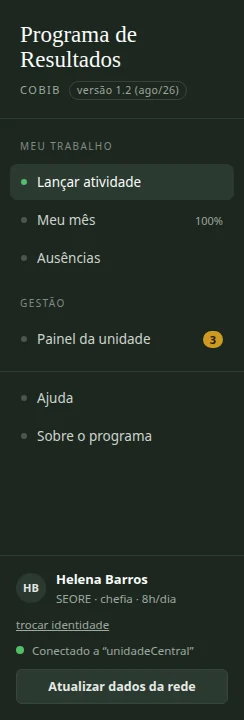
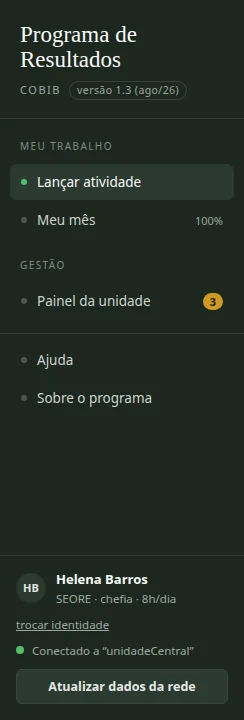
feat(ausencias): hide the section behind an admin switch
Management asked for the Absences section to come off the screen while
they settle what it should be. Deleting it would throw away working
code and, worse, would strand the periods people already registered —
which the goal percentage still discounts. So nothing was removed: the
screen, the panel tab and the texts that mention absences are hidden,
and a switch in the administrator's panel brings them all back.

The switch lives in config.json, which only the administrator writes,
so the decision is the same for everyone rather than a per-browser
preference; the others get it on the next "Atualizar dados da rede".
Absent from an older config.json, the key reads as hidden, which is the
state the section is meant to be in — no one has to do anything.

Hiding the rail button would not have been enough, so the rule sits in
podeVer alongside the others, and the panel falls back to "Aprovações"
when the tab remembered in this browser is the hidden one.

Three sentences explain the goal by naming absences. Cutting the clause
out mid-sentence would leave the punctuation adrift, so those sentences
exist in two wordings marked data-ausencias and data-sem-ausencias, and
only one is shown. The rail and panel screenshots were retaken without
the section: an image showing a menu item that is not there teaches the
wrong path with the confidence of a photograph.

Assisted-by: IA

diff --git a/code/index.html b/code/index.html
@@ -690,8 +690,14 @@ dialog h2{font-family:var(--serif); font-weight:400; font-size:21px; margin:0 0 
         <div class="valor"><span id="mesPct">—</span></div>
         <div class="barra"><i id="mesBarra" style="width:0"></i></div>
         <p class="explica" id="mesPctBase"></p>
-        <p class="explica">Média dos dias em que você lançou. Dias sem lançamento e dias de
-          ausência ficam fora do cálculo — o número mede intensidade, não assiduidade.</p>
+        <!-- Duas redações da mesma explicação: a segunda cita as ausências, e
+             só aparece quando a seção em avaliação está ligada. Esconder um
+             trecho no meio da frase deixaria a pontuação sem sentido. -->
+        <p class="explica" data-sem-ausencias>Média dos dias em que você lançou. Dias sem
+          lançamento ficam fora do cálculo — o número mede intensidade, não assiduidade.</p>
+        <p class="explica" data-ausencias hidden>Média dos dias em que você lançou. Dias sem
+          lançamento e dias de ausência ficam fora do cálculo — o número mede intensidade,
+          não assiduidade.</p>
       </div>
       <div class="num-cartao">
         <span class="rotulo">Pontos no mês</span>
@@ -824,7 +830,8 @@ dialog h2{font-family:var(--serif); font-weight:400; font-size:21px; margin:0 0 
               aria-selected="true" aria-controls="painelAprov">Aprovações<span class="cont" id="contLanc"></span></button>
       <button type="button" class="aba" role="tab" id="abaVisao" data-aba="visao"
               aria-selected="false" aria-controls="painelVisao">Visão do mês<span class="cont" id="contResumo"></span></button>
-      <button type="button" class="aba" role="tab" id="abaAus" data-aba="aus"
+      <!-- oculta enquanto a seção estiver em avaliação; ver aplicarAusencias() -->
+      <button type="button" class="aba" role="tab" id="abaAus" data-aba="aus" hidden
               aria-selected="false" aria-controls="painelAus">Ausências<span class="cont" id="contAus"></span></button>
     </div>
 
@@ -926,6 +933,23 @@ dialog h2{font-family:var(--serif); font-weight:400; font-size:21px; margin:0 0 
     <div class="cartao">
       <h2>Pasta oficial</h2>
       <p class="dica" id="infoInstalacao">—</p>
+    </div>
+
+    <!-- Seções que a gestão ainda discute. A chave fica no config.json, que
+         só o administrador grava, então a decisão vale igual para todos. -->
+    <div class="cartao">
+      <h2>Seções em avaliação</h2>
+      <p class="dica">Partes do programa que aguardam decisão da gestão. Ficam ocultas para
+        todo mundo enquanto isso; ligá-las aqui vale para todos assim que recarregarem os
+        dados da rede. O que já foi registrado continua guardado nos arquivos das pessoas,
+        mesmo com a seção desligada.</p>
+      <label style="display:flex;gap:8px;align-items:center;margin:14px 0 0;font-size:13px">
+        <input type="checkbox" id="chkMostrarAusencias" style="width:auto">
+        Mostrar a seção <b>Ausências</b> (tela do servidor e aba do painel)
+      </label>
+      <p class="dica" style="margin-top:8px">Com a seção desligada, ninguém registra nem
+        consulta ausências pela tela. As ausências já gravadas continuam saindo da conta do
+        percentual da meta — o cálculo não mudou.</p>
     </div>
 
     <div class="cartao">
@@ -1037,17 +1061,19 @@ dialog h2{font-family:var(--serif); font-weight:400; font-size:21px; margin:0 0 
           <ul>
             <li><b>Lançar atividade</b> — o registro do dia.</li>
             <li><b>Meu mês</b> — seus lançamentos, seus pontos e a meta alcançada.</li>
-            <li><b>Ausências</b> — períodos de afastamento.</li>
-            <li><b>Painel</b> (chefias) — aprovar, analisar o mês e conferir ausências.</li>
+            <li data-ausencias hidden><b>Ausências</b> — períodos de afastamento.</li>
+            <li data-sem-ausencias><b>Painel</b> (chefias) — aprovar e analisar o mês.</li>
+            <li data-ausencias hidden><b>Painel</b> (chefias) — aprovar, analisar o mês e
+              conferir ausências.</li>
           </ul>
           <p>Os números ao lado dos itens dizem se vale entrar: o percentual em "Meu
             mês" e a quantidade de lançamentos esperando você, no painel.</p>
           <figure>
             <img src="ajuda/rail.webp" loading="lazy"
                  alt="Barra de navegação escura à esquerda, com o grupo Meu trabalho
-                      (Lançar atividade, Meu mês com o percentual ao lado, Ausências)
-                      e o grupo Gestão (Painel da unidade com a contagem de pendentes),
-                      e abaixo os itens Ajuda e Sobre o programa.">
+                      (Lançar atividade e Meu mês, com o percentual ao lado) e o grupo
+                      Gestão (Painel da unidade com a contagem de pendentes), e abaixo
+                      os itens Ajuda e Sobre o programa.">
             <figcaption>A barra de navegação, como a vê uma chefia de unidade.</figcaption>
           </figure>
         </div>
@@ -1116,19 +1142,25 @@ dialog h2{font-family:var(--serif); font-weight:400; font-size:21px; margin:0 0 
       </div>
 
       <div class="cartao">
-        <h2>Ausências, e o que a meta mede</h2>
-        <p class="dica">Dois pontos que costumam ser lidos errado.</p>
+        <h2 data-sem-ausencias>O que a meta mede</h2>
+        <h2 data-ausencias hidden>Ausências, e o que a meta mede</h2>
+        <p class="dica" data-sem-ausencias>O número mais fácil de ler errado no programa.</p>
+        <p class="dica" data-ausencias hidden>Dois pontos que costumam ser lidos errado.</p>
         <div style="margin-top:14px">
-          <h3>Ausências</h3>
-          <p>Férias, licenças, banco de horas e abonos são registrados como
-            <b>período</b> — primeiro e último dia —, na tela Ausências. Não valem
+          <h3 data-ausencias hidden>Ausências</h3>
+          <p data-ausencias hidden>Férias, licenças, banco de horas e abonos são registrados
+            como <b>período</b> — primeiro e último dia —, na tela Ausências. Não valem
             pontos e não passam por aprovação. Servem para tirar da conta da meta os
             dias em que não havia como trabalhar.</p>
-          <h3>O percentual da meta</h3>
-          <p>A meta é por <b>dia trabalhado</b>: 15 pontos para quem cumpre 8 horas,
-            11 para quem cumpre 6. O percentual é a média <b>apenas dos dias em que
-            você lançou alguma coisa</b>; dias sem lançamento e dias de ausência
-            ficam fora do cálculo.</p>
+          <h3 data-ausencias hidden>O percentual da meta</h3>
+          <p data-sem-ausencias>A meta é por <b>dia trabalhado</b>: 15 pontos para quem
+            cumpre 8 horas, 11 para quem cumpre 6. O percentual é a média <b>apenas dos
+            dias em que você lançou alguma coisa</b>; dias sem lançamento ficam fora do
+            cálculo.</p>
+          <p data-ausencias hidden>A meta é por <b>dia trabalhado</b>: 15 pontos para quem
+            cumpre 8 horas, 11 para quem cumpre 6. O percentual é a média <b>apenas dos
+            dias em que você lançou alguma coisa</b>; dias sem lançamento e dias de
+            ausência ficam fora do cálculo.</p>
           <div class="destaque">
             <p>Por isso ele mede <b>intensidade, não assiduidade</b>: quem lançou em
               2 dias e bateu a meta nos 2 aparece com 100%, igual a quem lançou em
@@ -1149,8 +1181,11 @@ dialog h2{font-family:var(--serif); font-weight:400; font-size:21px; margin:0 0 
               respeitando os filtros de mês, pessoa e situação.</li>
             <li>Os lançamentos aparecem agrupados por dia, com o total do dia na
               faixa que abre o grupo.</li>
-            <li>As outras duas abas mostram a <b>visão do mês</b> (indicadores,
-              gráficos e resumo por pessoa) e as <b>ausências</b> da sua alçada.</li>
+            <li data-sem-ausencias>A outra aba, <b>visão do mês</b>, traz os indicadores,
+              os gráficos e o resumo por pessoa.</li>
+            <li data-ausencias hidden>As outras duas abas mostram a <b>visão do mês</b>
+              (indicadores, gráficos e resumo por pessoa) e as <b>ausências</b> da sua
+              alçada.</li>
           </ul>
           <p>Os dados que você vê são os que estavam na pasta da rede quando a tela
             foi aberta. Para ver o que outras pessoas gravaram depois disso, use
@@ -1259,7 +1294,13 @@ let CFG = {
   unidades: UNIDADES,
   chefiaGeral: (typeof CHEFIA_GERAL !== "undefined" ? CHEFIA_GERAL : null),
   senhas: (typeof SENHAS !== "undefined" ? SENHAS : {}),
-  exigirSenha: (typeof EXIGIR_SENHA !== "undefined" ? EXIGIR_SENHA : false)
+  exigirSenha: (typeof EXIGIR_SENHA !== "undefined" ? EXIGIR_SENHA : false),
+  /* Ausências ficaram OCULTAS na v1.3, enquanto a gestão discute o
+     assunto. O padrão é oculto: a chave só existe nos config.json de
+     quem ligou a seção de propósito, no painel do administrador.
+     Nada foi apagado — nem o código, nem as ausências já gravadas nos
+     arquivos das pessoas, que continuam saindo da conta da meta. */
+  mostrarAusencias: false
 };
 
 const $ = (id) => document.getElementById(id);
@@ -1287,6 +1328,23 @@ const podeAprovar = (r) =>
   (ehChefia() && papelDe(r) === "servidor" && r.unidade === ident.unidade) ||
   ehGeral();
 const ehMeu = (r) => ident && r.servidor === ident.nome && papelDe(r) === ident.perfil;
+/* Seção "Ausências" em avaliação pela gestão (v1.3): ligada ou desligada
+   pelo administrador, no config.json, e portanto igual para todos. */
+const mostraAusencias = () => CFG.mostrarAusencias === true;
+/* Um lugar só decide o que some junto com a seção: os trechos marcados no
+   HTML com data-ausencias (e os textos alternativos, marcados com
+   data-sem-ausencias), a aba do painel e, se alguém estiver nela, a
+   própria tela. O item do rail fica com ajustarRail(), que já cuida do
+   resto do rail. Nada é removido do documento — só escondido. */
+function aplicarAusencias() {
+  const ver = mostraAusencias();
+  for (const el of document.querySelectorAll("[data-ausencias]")) el.hidden = !ver;
+  for (const el of document.querySelectorAll("[data-sem-ausencias]")) el.hidden = ver;
+  $("abaAus").hidden = !ver;
+  if (!ver && abaAtual === "aus") irAba("aprov");
+  if (!ver && vistaAtual === "aus") irPara(ehAdm() ? "adm" : "lancar");
+  if (ident) ajustarRail();
+}
 
 function avisar(el, msg, erro = false) {
   el.textContent = msg;
@@ -1335,6 +1393,9 @@ function podeVer(v) {
   /* A ajuda é de todos, inclusive do administrador e de quem ainda não se
      identificou: parte das dúvidas é justamente sobre como entrar. */
   if (v === "entrada" || v === "ajuda") return true;
+  /* Seção em avaliação: esconder o botão no rail não bastaria — a regra
+     tem de valer para qualquer caminho que chame irPara("aus"). */
+  if (v === "aus") return !ehAdm() && mostraAusencias();
   if (v === "adm") return ehAdm();
   if (v === "painel") return ehChefia() || ehGeral() || ehAdm();
   return !ehAdm();   // lancar, mes, aus: quem registra atividade
@@ -1374,7 +1435,8 @@ function ajustarRail() {
   const gere  = ehChefia() || ehGeral() || ehAdm();
   $("railNav").hidden = !ident;
   $("grupoMeu").hidden = !lanca;
-  for (const id of ["navLancar", "navMes", "navAus"]) $(id).hidden = !lanca;
+  for (const id of ["navLancar", "navMes"]) $(id).hidden = !lanca;
+  $("navAus").hidden = !lanca || !mostraAusencias();
   $("grupoGestao").hidden = !gere;
   $("navPainel").hidden = !gere;
   $("navAdm").hidden = !ehAdm();
@@ -1450,6 +1512,10 @@ $("btnAtualizar").addEventListener("click", aposConectar);
 
 async function aposConectar() {
   await carregarConfig();
+  /* A configuração central manda: quem ligou ou desligou a seção em
+     avaliação foi o administrador, e o efeito chega aqui a cada leitura
+     da pasta — inclusive no "Atualizar dados da rede". */
+  aplicarAusencias();
   // valida o selo de instalação da pasta
   const idLocal = localStorage.getItem(CHAVE_INST);
   if (CFG.instalacao) {
@@ -1486,6 +1552,10 @@ async function carregarConfig() {
         chefiaGeral: cfg.chefiaGeral ?? null,
         senhas: cfg.senhas || {},
         exigirSenha: Boolean(cfg.exigirSenha),
+        /* === true, e não Boolean(): config.json gravado por uma versão
+           anterior à 1.3 não tem a chave, e a falta dela significa
+           OCULTO — o estado em que a seção entrou em avaliação. */
+        mostrarAusencias: cfg.mostrarAusencias === true,
         instalacao: cfg.instalacao || null
       };
     } else {
@@ -2333,7 +2403,10 @@ const ABAS = { aprov: "painelAprov", visao: "painelVisao", aus: "painelAus" };
 let abaAtual = "aprov";
 
 function irAba(k) {
-  if (!ABAS[k]) k = "aprov";
+  /* Com a seção em avaliação desligada, a aba guardada em ra.aba.v1 pode
+     apontar para "aus": cair na aba escondida deixaria o painel em
+     branco, sem nenhuma aba marcada. */
+  if (!ABAS[k] || (k === "aus" && !mostraAusencias())) k = "aprov";
   abaAtual = k;
   for (const [nome, id] of Object.entries(ABAS)) $(id).hidden = nome !== k;
   for (const b of document.querySelectorAll(".aba"))
@@ -2613,7 +2686,7 @@ function render() {
         const etiqueta = d.pct === null
           ? '<span class="info">meta não calculável</span>'
           : `<span class="meta-pct" data-abaixo="${d.pct < 100}"
-               title="Média de ${fmtMedia(d.media)} pontos em ${d.dias} dia(s) com lançamento; dias vazios e de ausência ficam fora da conta.">${d.pct}% da meta</span>`;
+               title="Média de ${fmtMedia(d.media)} pontos em ${d.dias} dia(s) com lançamento; dias vazios${mostraAusencias() ? " e de ausência" : ""} ficam fora da conta.">${d.pct}% da meta</span>`;
         return `<div class="srv">
           <span class="nome" title="${escapar(n)}">${escapar(n)}</span>
           <span class="pts">${v.pts}</span> pts
@@ -2998,6 +3071,7 @@ function renderAdm() {
     ? `Oficializada por ${CFG.instalacao.por} em ${fmtData(CFG.instalacao.em.slice(0, 10))} · identificador ${CFG.instalacao.id.slice(0, 8)}…  As pessoas só conseguem entrar em pastas com este selo.`
     : "Pasta ainda não oficializada — confirme sua identidade nesta pasta para oficializá-la.";
   $("chkExigirSenha").checked = CFG.exigirSenha;
+  $("chkMostrarAusencias").checked = mostraAusencias();
   $("tbodySenhas").innerHTML = pessoasAdministraveis().map(p => {
     const tem = Boolean(CFG.senhas[p.nome]);
     const st = (p.nome === ADM_NOME && !tem)
@@ -3047,6 +3121,13 @@ $("vAdm").addEventListener("click", async (e) => {
 $("chkExigirSenha").addEventListener("change", async (e) => {
   CFG.exigirSenha = e.target.checked;
   await salvarCFG(`Exigência de senha ${CFG.exigirSenha ? "ativada" : "desativada"}.`);
+});
+/* A seção volta (ou some) na hora para o próprio administrador; para os
+   demais, no próximo "Atualizar dados da rede". */
+$("chkMostrarAusencias").addEventListener("change", async (e) => {
+  CFG.mostrarAusencias = e.target.checked;
+  aplicarAusencias();
+  await salvarCFG(`Seção "Ausências" ${CFG.mostrarAusencias ? "ligada" : "desligada"} para todos.`);
 });
 $("btnSalvarCatalogo").addEventListener("click", async () => {
   let novo;
@@ -3172,6 +3253,8 @@ $("dlgSobre").addEventListener("close", () => $("btnSobre").focus());
 
 /* --------------------------- INICIALIZAÇÃO --------------------------- */
 montarSobre();
+/* Antes de qualquer configuração ser lida vale o padrão: seção oculta. */
+aplicarAusencias();
 montarPessoas();
 montarProcessos();
 montarTiposAusencia();
